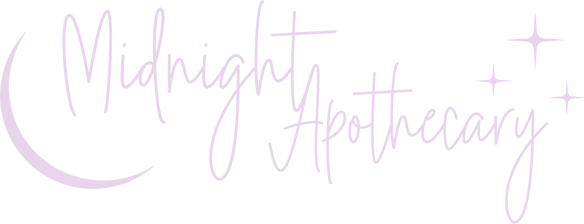
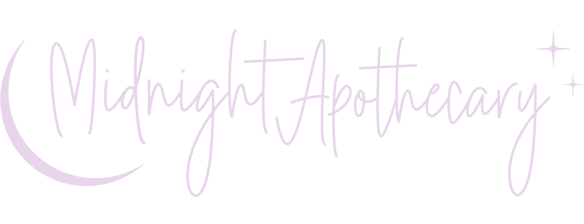
cambios de tonos, reduccion del hero

diff --git a/src/styles.css b/src/styles.css
@@ -49,18 +49,17 @@ html {
 body {
     font-size: 1.6rem;
     margin: 0;
-    background-color: var(--back-medium);
+    background-color: var(--color-light);
     background-image: url(../src/assets/img/fondo.jpg);
     background-blend-mode: multiply;
-    background-size: cover;
-    background-repeat: no-repeat;
+    background-repeat: repeat-y;
     min-height: 100vh;
     display: flex;
     flex-direction: column;
 }
 
 hr {
-    border: .15rem solid var(--color-light);
+    border: .15rem solid var(--color-extra-light);
     margin: 0;
 }
 
@@ -156,19 +155,19 @@ textarea:focus {
 }
 
 .fondo-user {
-    background-color: var(--back-medium);
+    background-color: var(--color-light);
     background-image: url(../src/assets/img/dibujos-user.jpg);
     background-blend-mode: multiply;
 }
 
 .fondo-tienda {
-    background-color: var(--back-medium);
+    background-color: var(--color-light);
     background-image: url(../src/assets/img/dibujos-tienda.jpg);
     background-blend-mode: multiply;
 }
 
 .fondo-blog {
-    background-color: var(--back-medium);
+    background-color: var(--color-light);
     background-image: url(../src/assets/img/dibujos-blog.jpg);
     background-blend-mode: multiply;
 }
@@ -245,7 +244,7 @@ textarea:focus {
 
 .contenedor .info {
     height: 100%;
-    background-color: var(--back-light-trans);
+    background-color: var(--color-extra-light-trans);
     display: flex;
     flex-direction: column;
     box-sizing:content-box;

diff --git a/src/app/components/shared/navbar/navbar.component.css b/src/app/components/shared/navbar/navbar.component.css
@@ -1,6 +1,6 @@
 .navbar {
     width: 100%;
-    height: 15rem;
+    height: 14rem;
     background-image: url(../../../../assets/img/navbar.jpg);
     background-size: cover;
     padding: .5px;
@@ -17,15 +17,15 @@
     flex-direction: row;
     justify-content: space-evenly;
     align-items: center;
-    width: 30%;
-    margin: auto;
+    width: 40%;
+    margin-left: 15rem;
     padding: 0;
 }
 
 
 .navbar-links a {
     color: var(--color-light);
-    font-size: 2rem;
+    font-size: 2.2rem;
     font-family: 'Quicksand', sans-serif;
     text-transform: uppercase;
     text-decoration: none;
@@ -37,27 +37,14 @@
     color: var(--color-extra-light);
 }
 
-/*TITULO PAGINA*/
-/* .titulo h2{
-    color: var(--color-extra-light);
-    font-size: 5rem;
-    font-family: var(--titulo-font);
-    text-decoration: none;
-    margin-left: 2rem;
-}
-
-.mayus{
-    font-size: 6rem;
-} */
-
 img{
     width: auto;
     height: 15rem;
+    margin: 1rem 2rem;
 }
 
 .imagotipo{
     content: url("../../../../assets/img/imagotipo.png");
-    
 }
 
 
@@ -116,7 +103,7 @@ img{
 /*CARRITO*/
 .dropbtn-carrito {
     cursor: pointer;
-    margin: 0 3rem;
+    margin-left: 15rem;
 }
 
 .dropbtn-carrito i {

diff --git a/src/app/components/shared/header/header.component.html b/src/app/components/shared/header/header.component.html
@@ -15,10 +15,10 @@
 </header> -->
 
 <header>
-    <div class="user">
-        <a *ngIf="!isLogged && firebaseAuthenticationReady" [routerLink]="['/login']">Iniciar sesión</a>
-        <a *ngIf="!isLogged && firebaseAuthenticationReady" [routerLink]="['/register']">Crear cuenta</a>
-        <a *ngIf="isLogged && firebaseAuthenticationReady" (click)="cerrarSesion()">Cerrar sesión</a>
-    </div>
-
+        <div class="user">
+            <a *ngIf="!isLogged && firebaseAuthenticationReady" [routerLink]="['/login']">Iniciar sesión</a>
+            <a *ngIf="!isLogged && firebaseAuthenticationReady" [routerLink]="['/register']">Crear cuenta</a>
+            <a *ngIf="isLogged && firebaseAuthenticationReady" (click)="cerrarSesion()">Cerrar sesión</a>
+        </div>
 </header>
+<hr>

diff --git a/src/app/components/shared/header/header.component.css b/src/app/components/shared/header/header.component.css
@@ -1,9 +1,10 @@
 header{
-    /* background-image: url(../../../../assets/img/header.jpg); */
     background-color: black;
     background-position: center;
     height: 3rem;
+    align-items: center;
 }
+
 
 .user{
     display: flex;
@@ -11,15 +12,14 @@ header{
     justify-content: end;
     margin-right: 1rem;
     padding: 0;
-
 }
 
 .user a{
     color: var(--color-extra-light);
-    font-size: 1.5rem;
+    font-size: 1.8rem;
     font-family: var(--subtitulo-font);
-    text-transform: uppercase;
-    font-weight: 200;
+
+    font-weight: 400;
     text-decoration: none;
     padding: 0.5rem;
     cursor: pointer;   

diff --git a/src/app/components/shared/navbar/navbar.component.html b/src/app/components/shared/navbar/navbar.component.html
@@ -1,4 +1,4 @@
-<hr>
+
 <div class="navbar">
 
     <!-- <div class="titulo">
@@ -34,9 +34,9 @@
 
     
     </div>
+
     <div class="dropbtn-carrito" *ngIf="isLogged && firebaseAuthenticationReady && !isAdminRole">
         <button class="dropbtn"><i class="fi fi-sr-shopping-basket"></i></button>
-        
     </div>
 
 </div>

diff --git a/src/app/components/home/hero/hero.component.css b/src/app/components/home/hero/hero.component.css
@@ -1,8 +1,11 @@
 .hero-carousel{
     position: relative;
     overflow: hidden;
-    width: 100%;
-    max-height: 76.4rem;
+    width: 70%;
+    height: auto;
+    background-color: var(--back-dark-trans);
+    padding: .5rem;
+    margin: 1rem auto;
 }
 
 /*IMAGENES*/

diff --git a/src/app/components/tienda/listar-productos/listar-productos.component.css b/src/app/components/tienda/listar-productos/listar-productos.component.css
@@ -193,7 +193,7 @@
     flex: 1 0 calc(25% - 1rem);
     margin: .5rem;
     border-radius: 9px;
-    background-color:  #b39fb6af;
+    background-color:  var(--color-extra-light);
 }
 
 .card p, h3{
